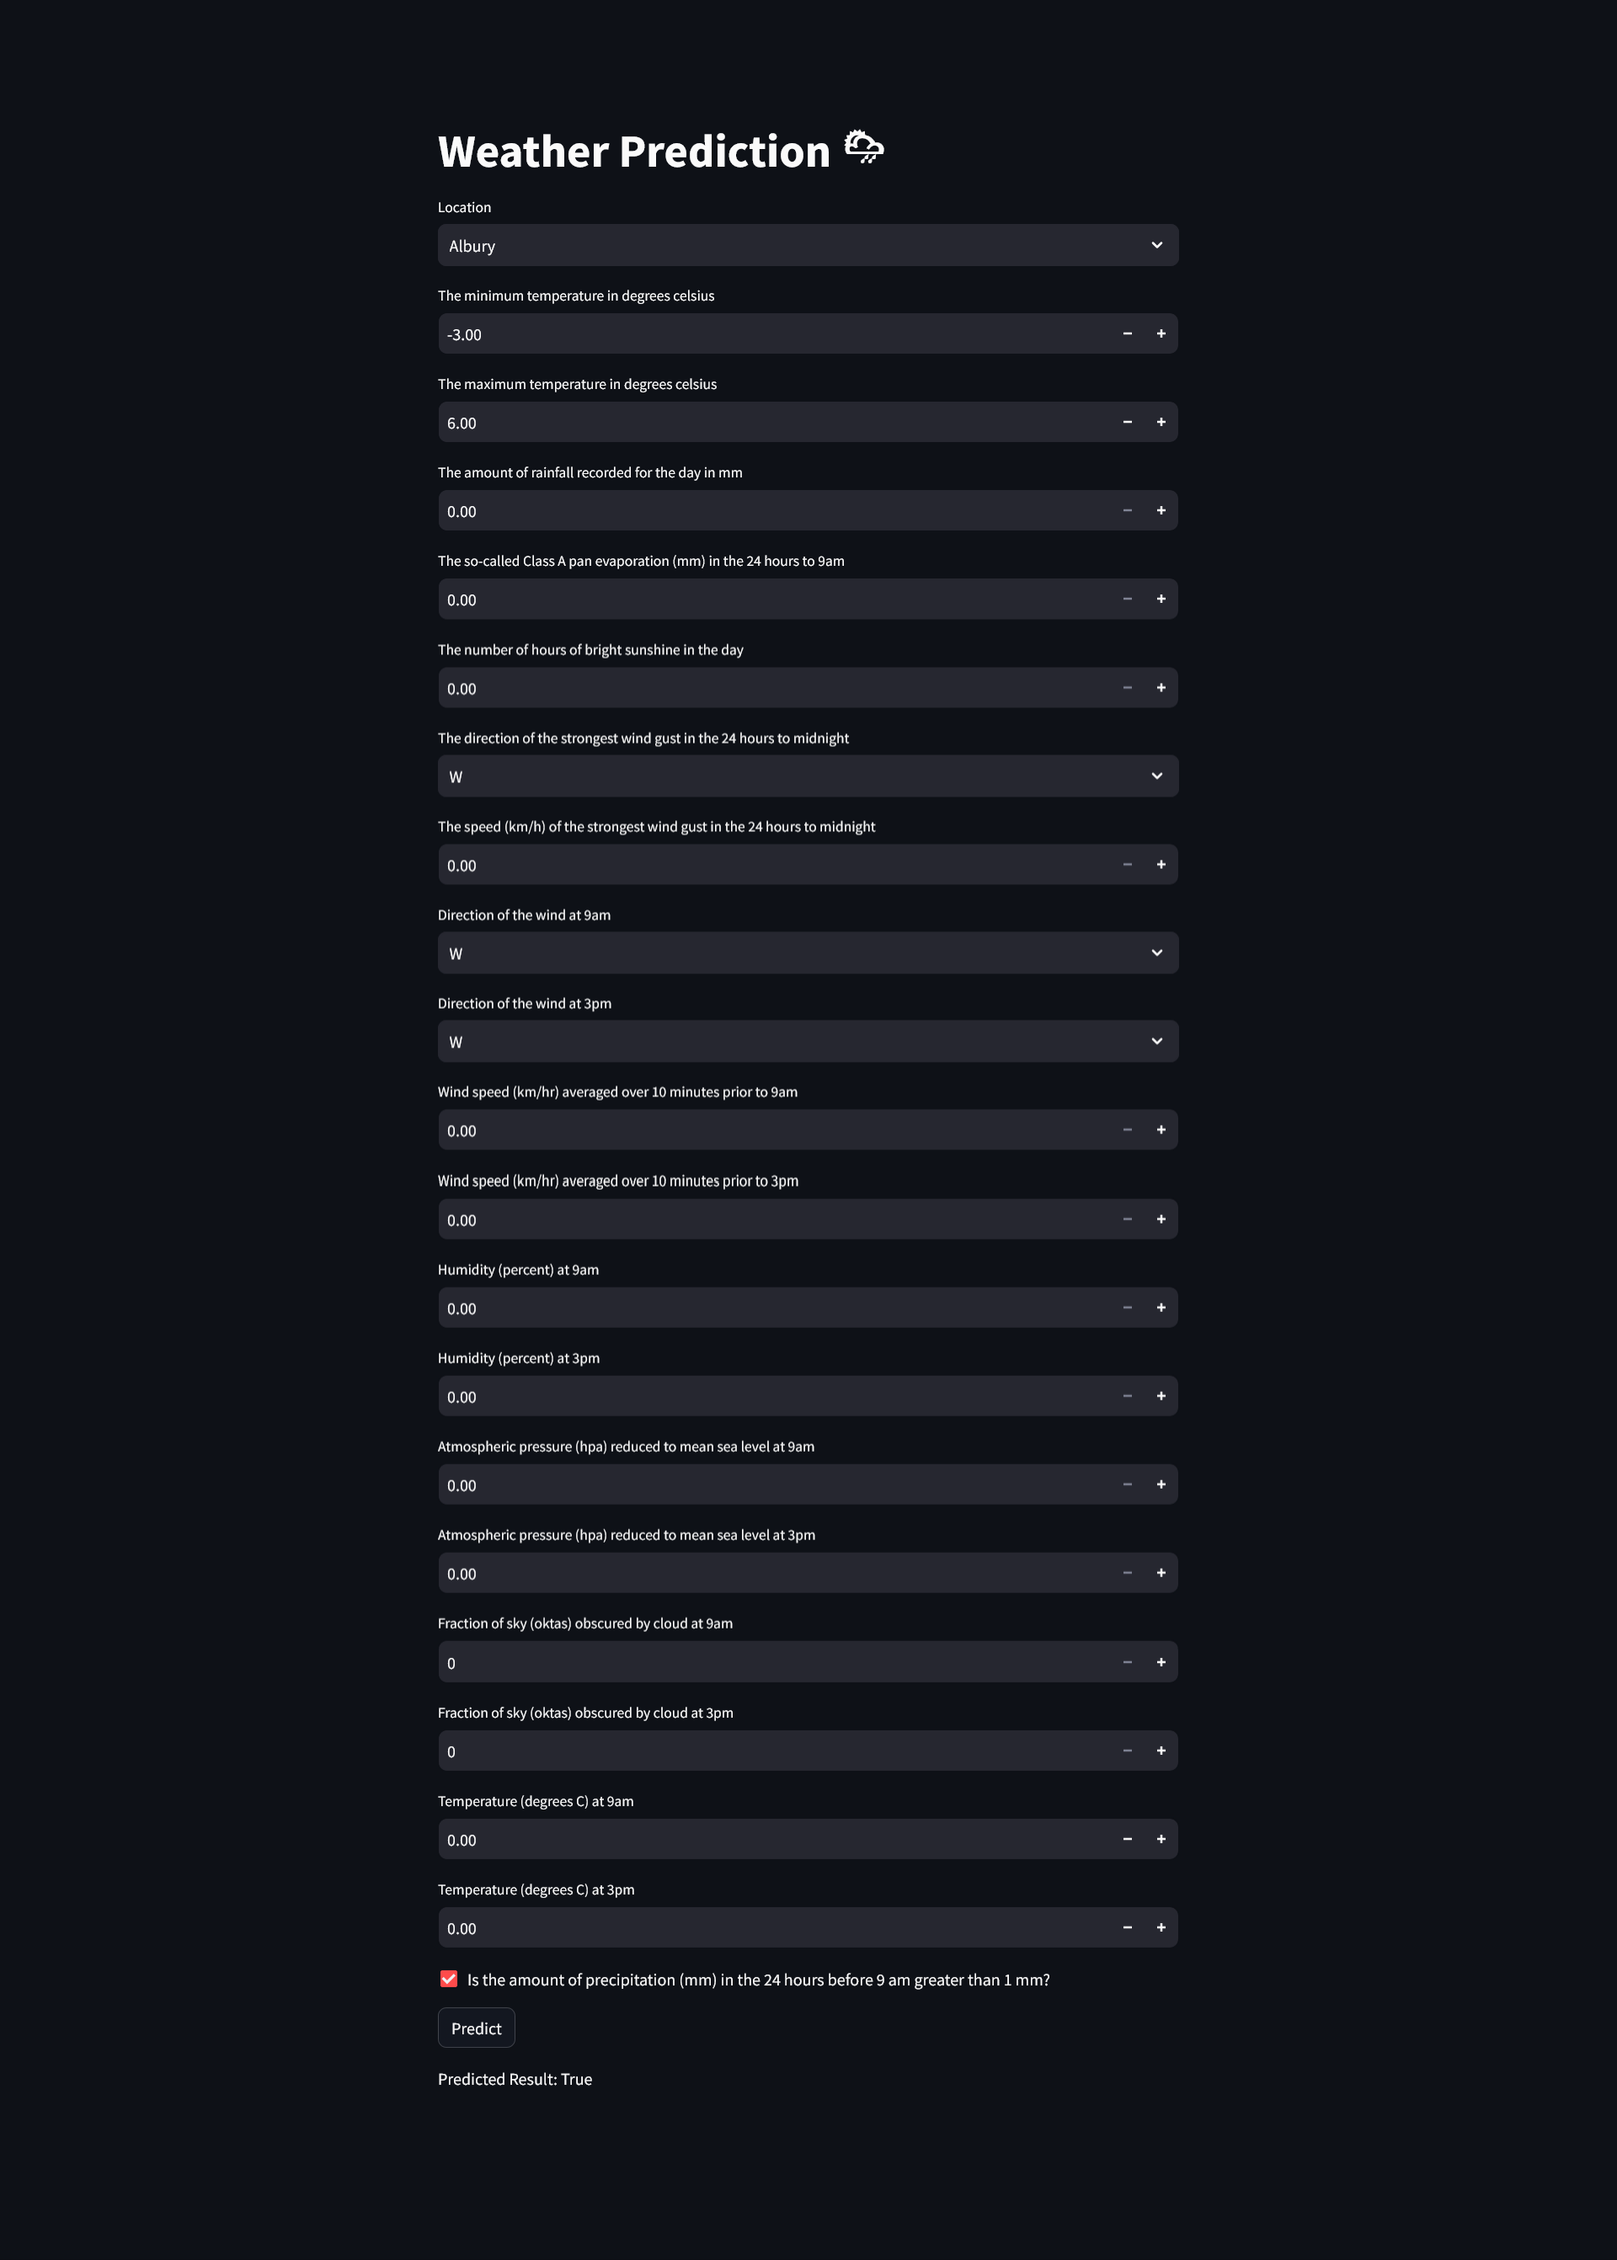
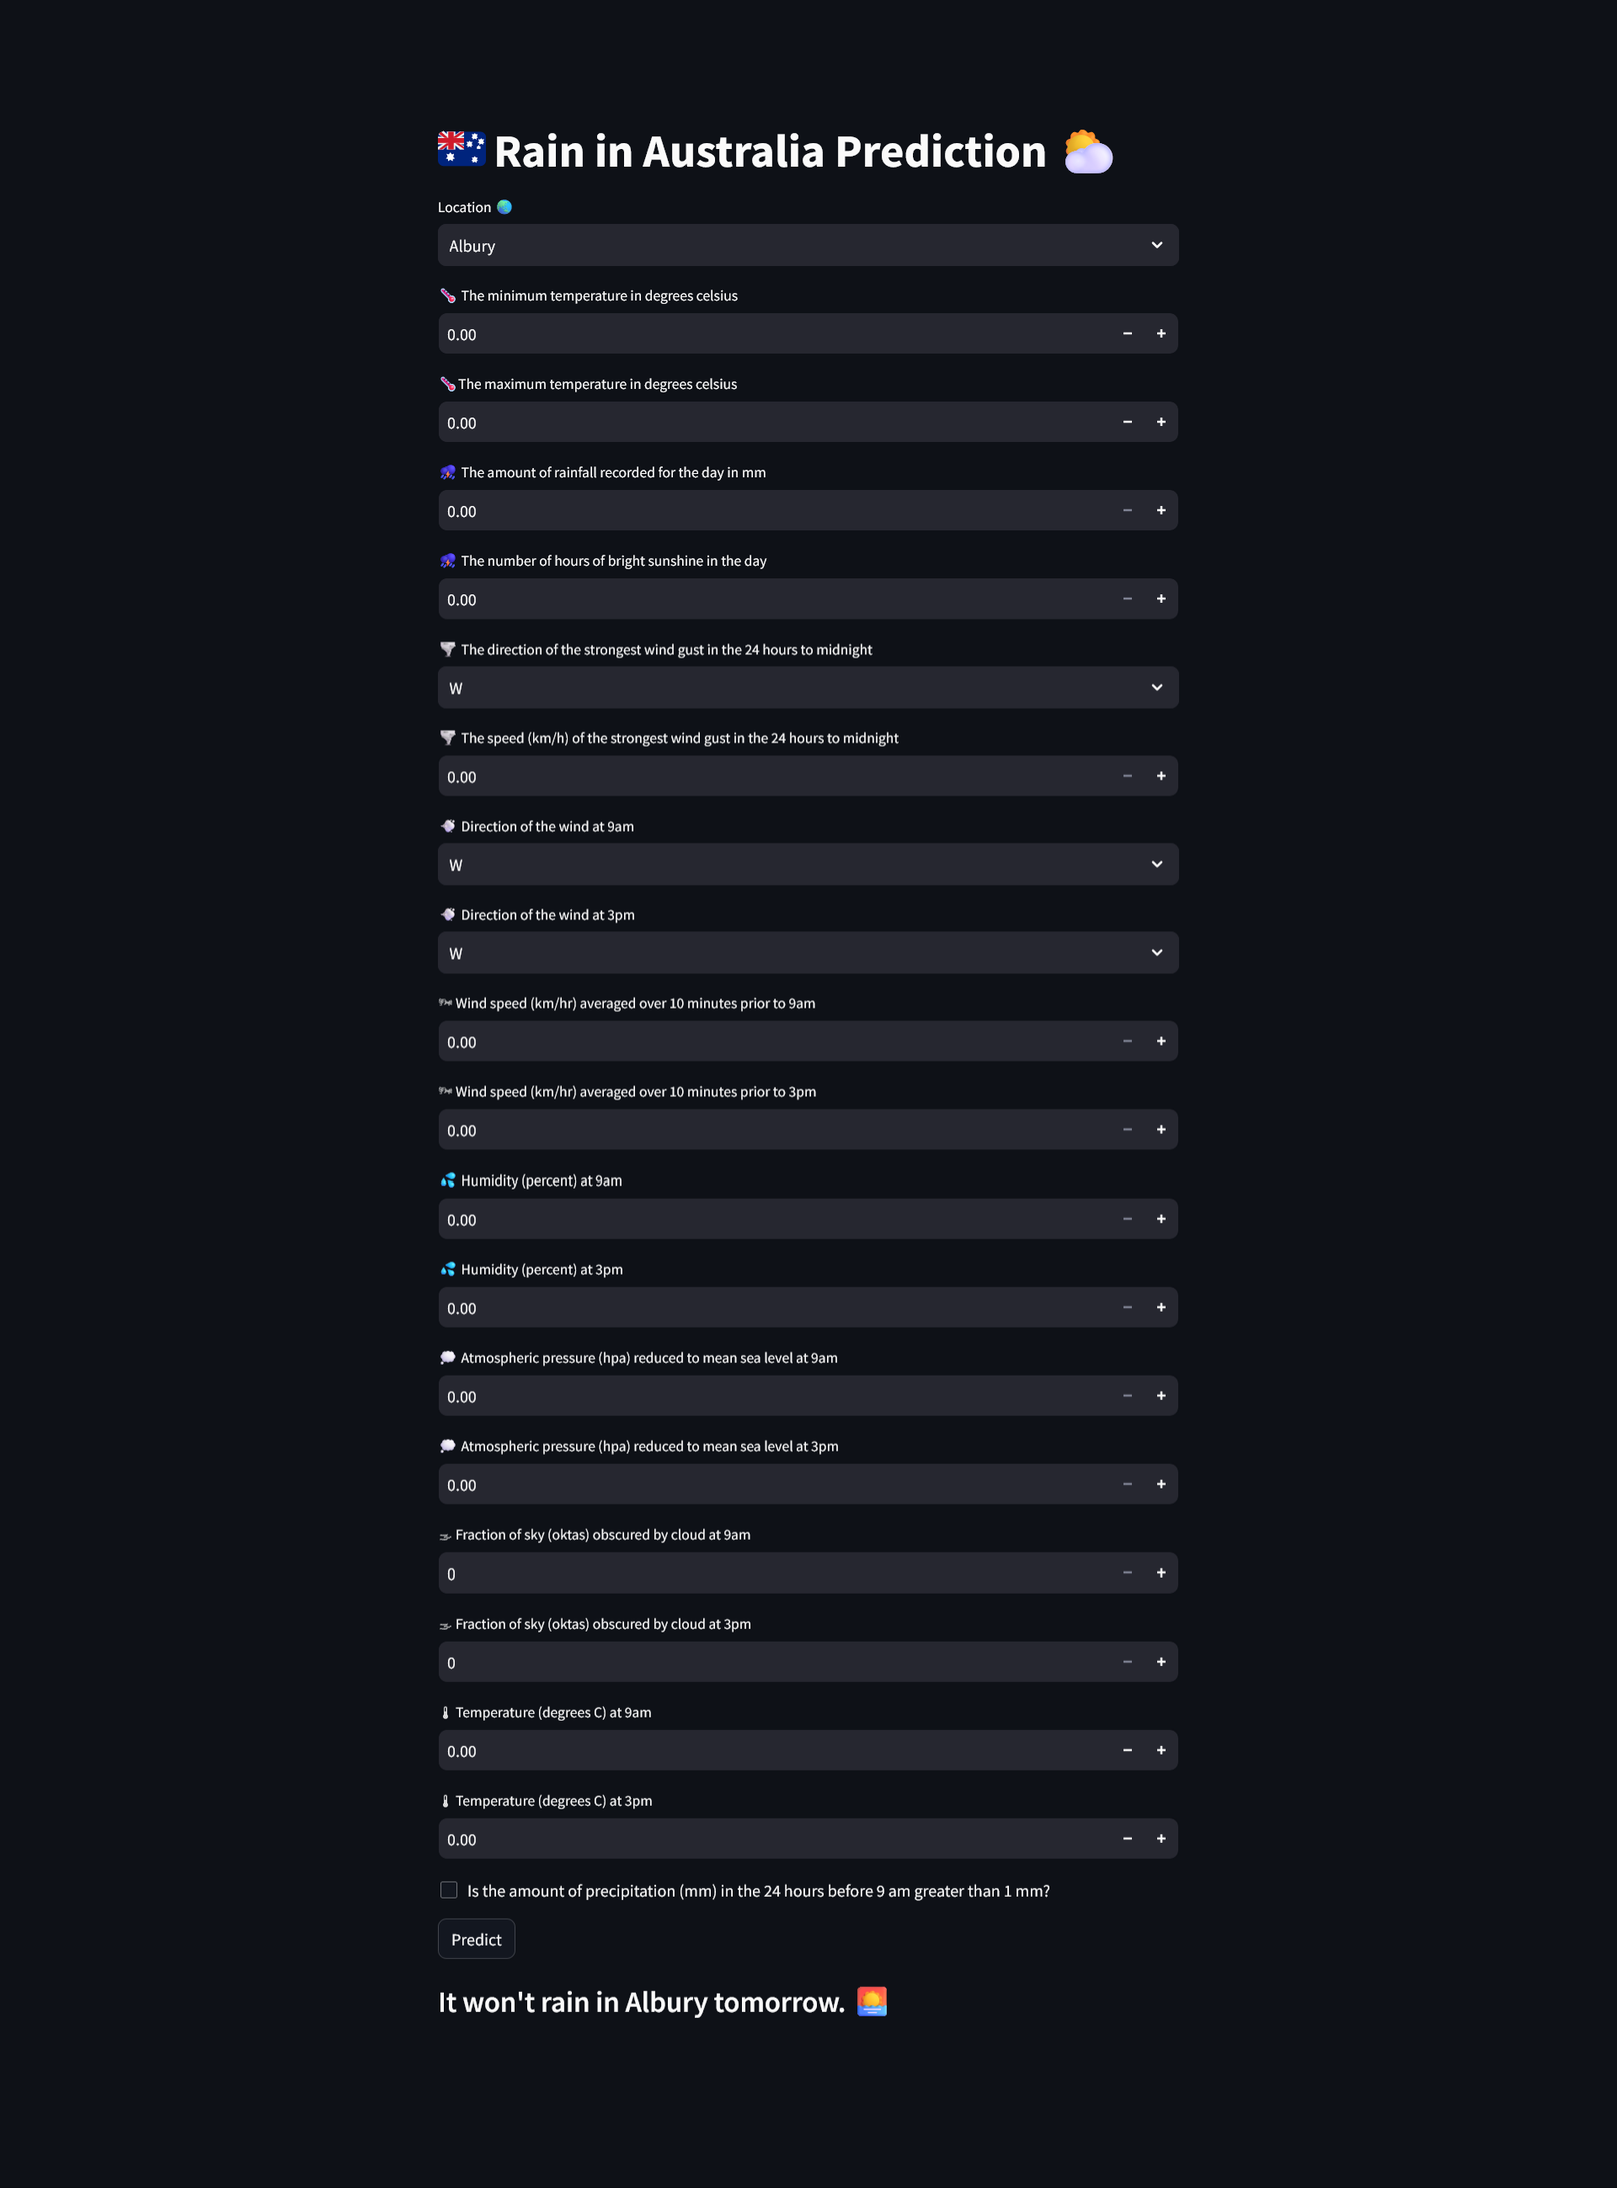
RA-5 : Delete Evaporation column,some other small changes

Changed region(s): [[0.25, 0.0623, 0.75, 0.935]]

diff --git a/app/rainPredictor.py b/app/rainPredictor.py
@@ -4,40 +4,39 @@ from additional_info import locations, directions
 
 class Form:
     def __init__(self):
-        self.location = st.selectbox('Location', options=locations)
-        self.minTemp = st.number_input('The minimum temperature in degrees celsius', min_value=-100.0, max_value=100.0,
+        self.location = st.selectbox('Location 🌏', options=locations)
+        self.minTemp = st.number_input('🌡 The minimum temperature in degrees celsius', min_value=-100.0, max_value=100.0,
                                        value=0.0, step=1.0)
-        self.maxTemp = st.number_input('The maximum temperature in degrees celsius', min_value=-100.0, max_value=100.0,
+        self.maxTemp = st.number_input(' 🌡The maximum temperature in degrees celsius', min_value=-100.0, max_value=100.0,
                                        value=0.0, step=1.0)
-        self.rainfall = st.number_input('The amount of rainfall recorded for the day in mm', min_value=0.0, value=0.0,
+        self.rainfall = st.number_input('⛈ The amount of rainfall recorded for the day in mm', min_value=0.0, value=0.0,
                                         step=0.1)
-        self.evaporation = st.number_input('The so-called Class A pan evaporation (mm) in the 24 hours to 9am',
-                                           min_value=0.0, value=0.0, step=0.1)
-        self.sunshine = st.number_input('The number of hours of bright sunshine in the day', min_value=0.0, value=0.0,
+
+        self.sunshine = st.number_input('⛈ The number of hours of bright sunshine in the day', min_value=0.0, value=0.0,
                                         step=0.1)
-        self.windGustDir = st.selectbox('The direction of the strongest wind gust in the 24 hours to midnight',
+        self.windGustDir = st.selectbox('🌪 The direction of the strongest wind gust in the 24 hours to midnight',
                                         options=directions)
-        self.windGustSpeed = st.number_input('The speed (km/h) of the strongest wind gust in the 24 hours to midnight',
+        self.windGustSpeed = st.number_input('🌪 The speed (km/h) of the strongest wind gust in the 24 hours to midnight',
                                              min_value=0.0, value=0.0, step=0.1)
-        self.windDir9am = st.selectbox('Direction of the wind at 9am', options=directions)
-        self.windDir3pm = st.selectbox('Direction of the wind at 3pm', options=directions)
-        self.windSpeed9am = st.number_input('Wind speed (km/hr) averaged over 10 minutes prior to 9am', min_value=0.0,
+        self.windDir9am = st.selectbox('💨 Direction of the wind at 9am', options=directions)
+        self.windDir3pm = st.selectbox('💨 Direction of the wind at 3pm', options=directions)
+        self.windSpeed9am = st.number_input('🌬 Wind speed (km/hr) averaged over 10 minutes prior to 9am', min_value=0.0,
                                             value=0.0, step=0.1)
-        self.windSpeed3pm = st.number_input('Wind speed (km/hr) averaged over 10 minutes prior to 3pm', min_value=0.0,
+        self.windSpeed3pm = st.number_input('🌬 Wind speed (km/hr) averaged over 10 minutes prior to 3pm', min_value=0.0,
                                             value=0.0, step=0.1)
-        self.humidity9am = st.number_input('Humidity (percent) at 9am', min_value=0.0, value=0.0, step=0.1)
-        self.humidity3pm = st.number_input('Humidity (percent) at 3pm', min_value=0.0, value=0.0, step=0.1)
-        self.pressure9am = st.number_input('Atmospheric pressure (hpa) reduced to mean sea level at 9am', min_value=0.0,
+        self.humidity9am = st.number_input('💦 Humidity (percent) at 9am', min_value=0.0, value=0.0, step=0.1)
+        self.humidity3pm = st.number_input('💦 Humidity (percent) at 3pm', min_value=0.0, value=0.0, step=0.1)
+        self.pressure9am = st.number_input('💭 Atmospheric pressure (hpa) reduced to mean sea level at 9am', min_value=0.0,
                                            value=0.0, step=0.1)
-        self.pressure3pm = st.number_input('Atmospheric pressure (hpa) reduced to mean sea level at 3pm', min_value=0.0,
+        self.pressure3pm = st.number_input('💭 Atmospheric pressure (hpa) reduced to mean sea level at 3pm', min_value=0.0,
                                            value=0.0, step=0.1)
-        self.cloud9am = st.number_input('Fraction of sky (oktas) obscured by cloud at 9am', min_value=0, max_value=8,
+        self.cloud9am = st.number_input('🌫 Fraction of sky (oktas) obscured by cloud at 9am', min_value=0, max_value=8,
                                         value=0, step=1)
-        self.cloud3pm = st.number_input('Fraction of sky (oktas) obscured by cloud at 3pm', min_value=0, max_value=8,
+        self.cloud3pm = st.number_input('🌫 Fraction of sky (oktas) obscured by cloud at 3pm', min_value=0, max_value=8,
                                         value=0, step=1)
-        self.temp9am = st.number_input('Temperature (degrees C) at 9am', min_value=-100.0, max_value=100.0, value=0.0,
+        self.temp9am = st.number_input('🌡 Temperature (degrees C) at 9am', min_value=-100.0, max_value=100.0, value=0.0,
                                        step=0.1)
-        self.temp3pm = st.number_input('Temperature (degrees C) at 3pm', min_value=-100.0, max_value=100.0, value=0.0,
+        self.temp3pm = st.number_input('🌡 Temperature (degrees C) at 3pm', min_value=-100.0, max_value=100.0, value=0.0,
                                        step=0.1)
         self.rainToday = st.checkbox(
             'Is the amount of precipitation (mm) in the 24 hours before 9 am greater than 1 mm?')
@@ -45,15 +44,19 @@ class Form:
 
 
 def main():
-    st.title('Weather Prediction 🌦')
+    st.title('🇦🇺  Rain in Australia Prediction ⛅')
 
     form = Form()
 
     if form.submit:
         try:
             result = form.rainToday
-            # waiting for the model
-            st.write(f"Predicted Result: {result}")
+
+            if result:
+                st.subheader(f"It will rain in {form.location} tomorrow.Don't forget to take an umbrella ☔")
+            else:
+                st.subheader(f"It won't rain in {form.location} tomorrow. 🌅")
+
         except Exception as e:
             st.error(f"An error occurred: {e}")
 
